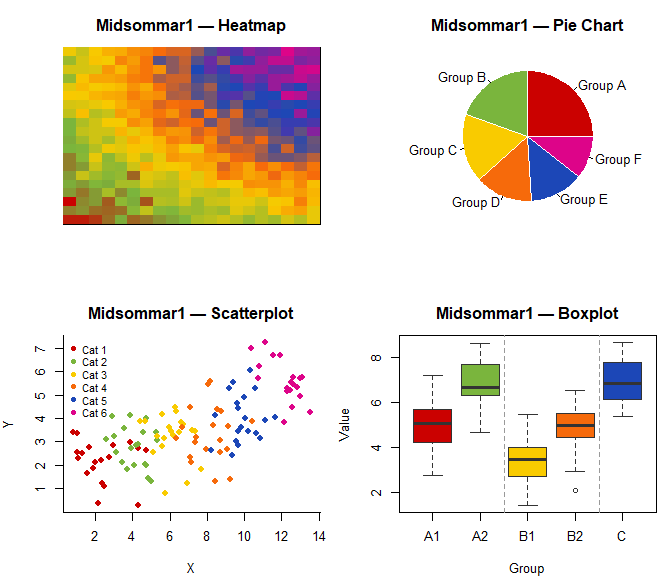
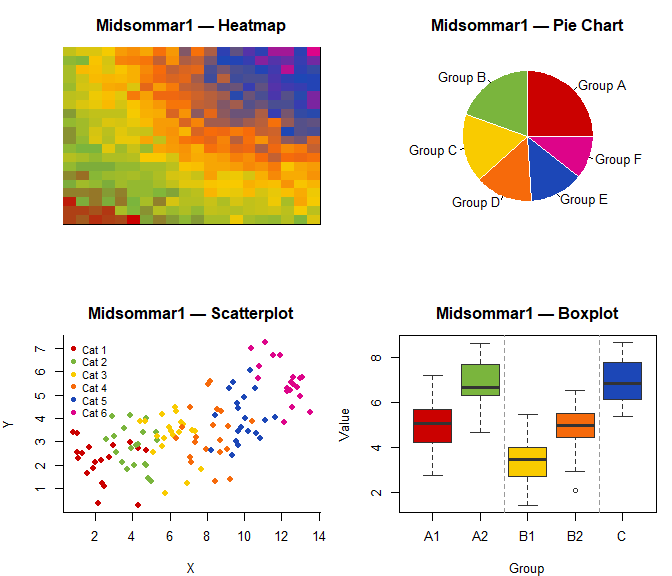
update example figures

Changed region(s): [[0.0938, 0.0625, 0.5, 0.4062]]

diff --git a/README.md b/README.md
@@ -10,7 +10,7 @@ Afraid*, and *Eddington*.
 
 ``` r
 # Development version
-devtools::install_github("yourusername/aripalettes")
+devtools::install_github("zhorve/aripalettes")
 ```
 
 ## Usage
@@ -137,7 +137,7 @@ image(volcano, col = pal)
 ![](figure/volcano-1.png)
 
 ``` r
-pal <- ari_palette("Eddington2", 21, type = "continuous")
+pal <- ari_palette("Eddington1", 21, type = "continuous")
 image(volcano, col = pal)
 ```
 
@@ -155,7 +155,7 @@ test_palette("Midsommar1")
 ![](figure/test_hereditary2-1.png)
 
 ``` r
-test_palette("Hereditary4")
+test_palette("Eddington3")
 ```
 
 ![](figure/test_midsommar1-1.png)